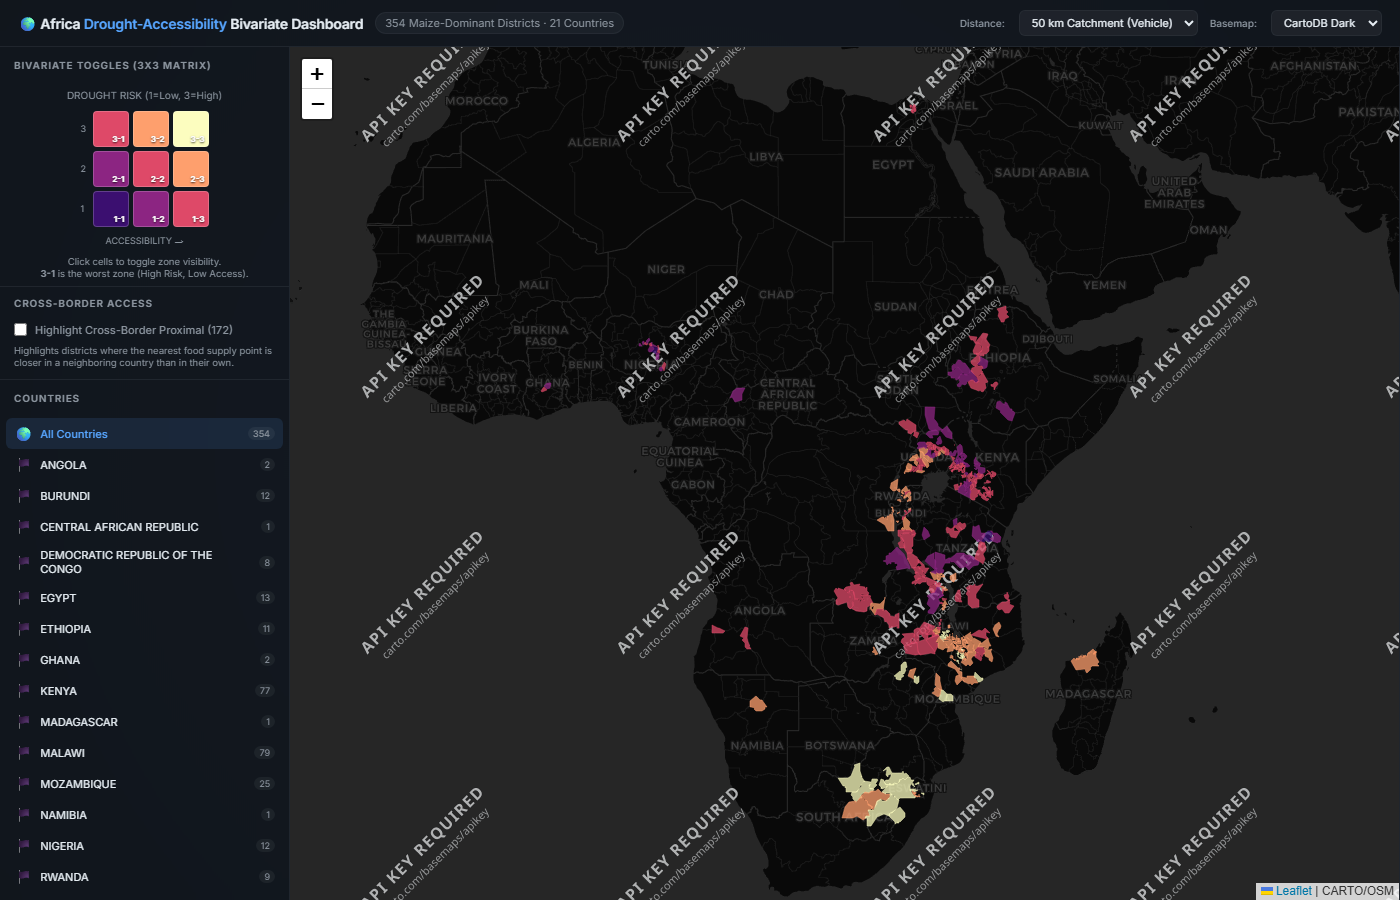
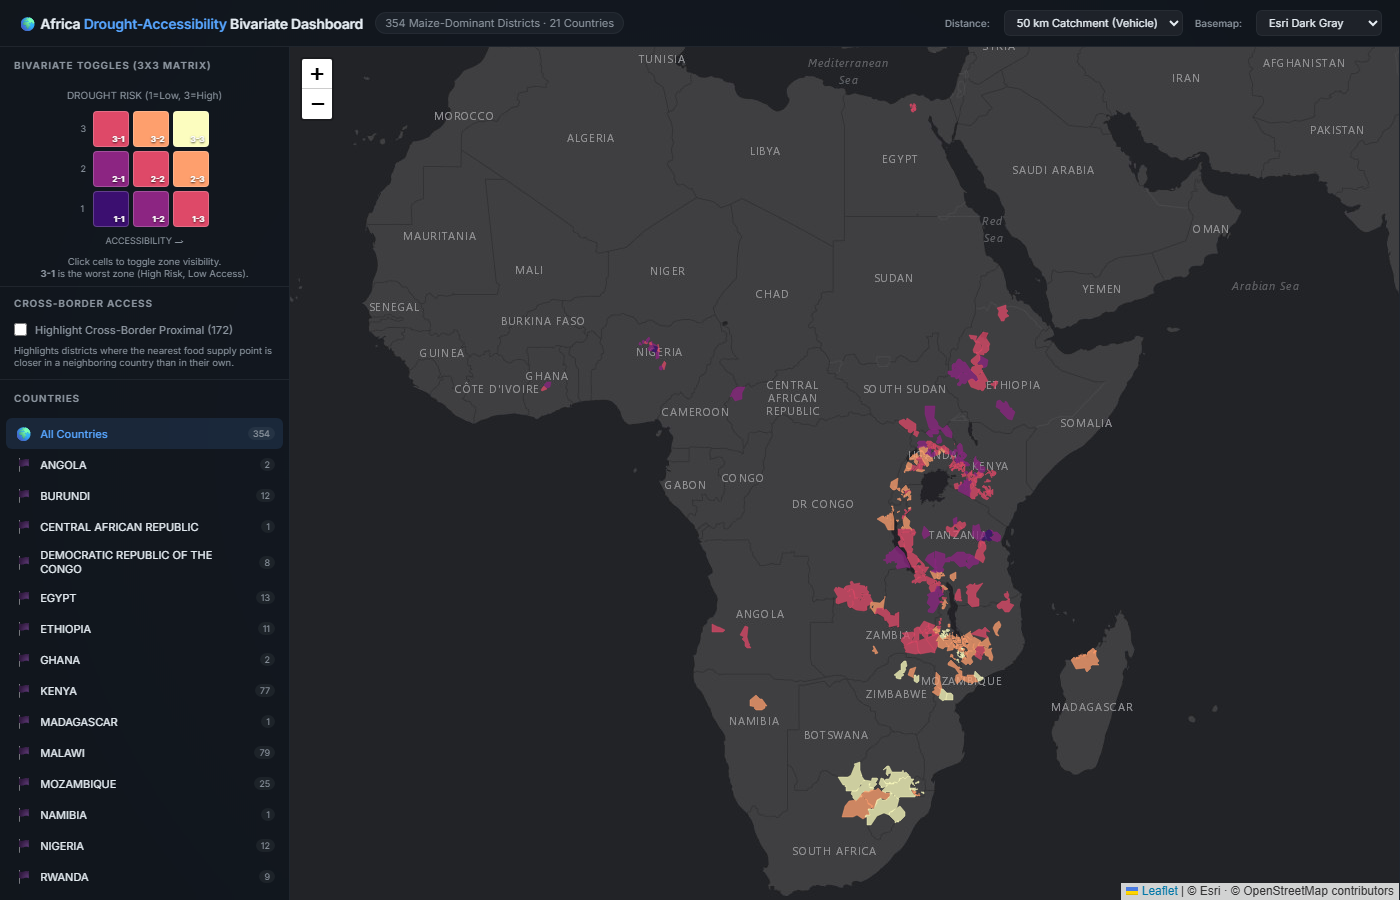
fix: replace CARTO basemaps (now API-key gated) with keyless Esri tiles; regenerate dashboard screenshot

diff --git a/07_dashboard/index.html b/07_dashboard/index.html
@@ -296,8 +296,8 @@ aside{
   </select>
   <label>Basemap:</label>
   <select id="bmSel">
-    <option value="dark">CartoDB Dark</option>
-    <option value="positron">CartoDB Light</option>
+    <option value="dark">Esri Dark Gray</option>
+    <option value="positron">Esri Light Gray</option><option value="osm">OpenStreetMap</option><option value="sat">Esri Satellite</option><option value="ter">Esri Topographic</option>
   </select>
 </header>
 
@@ -368,8 +368,8 @@ const GJ = {"type":"FeatureCollection","features":[{"id":"0","type":"Feature","p
 const YEARS = Array.from({length:26},(_,i)=>2000+i);
 const FLAGS = {'Angola':'&#127462;&#127476;','Burundi':'&#127463;&#127470;','Central African Republic':'&#127464;&#127467;','Democratic Republic of the Congo':'&#127464;&#127465;','Egypt':'&#127466;&#127468;','Ethiopia':'&#127466;&#127481;','Ghana':'&#127468;&#127469;','Kenya':'&#127472;&#127466;','Madagascar':'&#127474;&#127468;','Malawi':'&#127474;&#127484;','Mozambique':'&#127474;&#127487;','Namibia':'&#127475;&#127462;','Nigeria':'&#127475;&#127468;','Rwanda':'&#127479;&#127484;','South Africa':'&#127487;&#127462;','South Sudan':'&#127480;&#127480;','Swaziland':'&#127480;&#127487;','Tanzania':'&#127481;&#127487;','Uganda':'&#127482;&#127468;','Zambia':'&#127487;&#127474;','Zimbabwe':'&#127487;&#127484;'};
 const BM = {
-  dark:'https://{s}.basemaps.cartocdn.com/dark_all/{z}/{x}/{y}{r}.png',
-  positron:'https://{s}.basemaps.cartocdn.com/light_all/{z}/{x}/{y}{r}.png',
+  dark:'https://server.arcgisonline.com/ArcGIS/rest/services/Canvas/World_Dark_Gray_Base/MapServer/tile/{z}/{y}/{x}',
+  positron:'https://server.arcgisonline.com/ArcGIS/rest/services/Canvas/World_Light_Gray_Base/MapServer/tile/{z}/{y}/{x}',
   sat:'https://server.arcgisonline.com/ArcGIS/rest/services/World_Imagery/MapServer/tile/{z}/{y}/{x}',
   ter:'https://server.arcgisonline.com/ArcGIS/rest/services/World_Topo_Map/MapServer/tile/{z}/{y}/{x}',
   osm:'https://{s}.tile.openstreetmap.org/{z}/{x}/{y}.png'
@@ -401,7 +401,7 @@ let selCty = "all";
 let mapLayer = null, tileLayer = null, chart = null;
 
 const map = L.map('map', {zoomControl:true}).setView([0,25],4);
-tileLayer = L.tileLayer(BM.dark, {attribution:'CARTO/OSM',maxZoom:18}).addTo(map);
+tileLayer = L.tileLayer(BM.dark, {attribution:'&copy; Esri &middot; &copy; OpenStreetMap contributors',maxZoom:18}).addTo(map);
 
 // ── Boot ──────────────────────────────────────────────────────────────────────
 buildClist();
@@ -546,7 +546,7 @@ document.getElementById("distSel").addEventListener("change", e => {
 // Palette selector removed
 document.getElementById("bmSel").addEventListener("change", e => {
   if (tileLayer) map.removeLayer(tileLayer);
-  tileLayer = L.tileLayer(BM[e.target.value], {attribution: 'CARTO/OSM/Esri', maxZoom: 18}).addTo(map);
+  tileLayer = L.tileLayer(BM[e.target.value], {attribution: '&copy; Esri &middot; &copy; OpenStreetMap contributors', maxZoom: 18}).addTo(map);
   tileLayer.bringToBack();
 });
 document.getElementById("cbHighlight").addEventListener("change", e => {

diff --git a/07_dashboard/build_dashboard_legacy.py b/07_dashboard/build_dashboard_legacy.py
@@ -441,8 +441,8 @@ input[type=range]{{flex:1;accent-color:var(--accent);cursor:pointer;height:4px}}
   <select id="ctySel"><option value="all">All Countries</option></select>
   <label>Basemap:</label>
   <select id="bmSel">
-    <option value="dark">CartoDB Dark</option>
-    <option value="positron">CartoDB Light</option>
+    <option value="dark">Esri Dark Gray</option>
+    <option value="positron">Esri Light Gray</option><option value="osm">OpenStreetMap</option><option value="sat">Esri Satellite</option><option value="ter">Esri Topographic</option>
   </select>
 </header>
 
@@ -517,8 +517,8 @@ const YEARS = Array.from({{length:26}},(_,i)=>2000+i);
 const RC = {{'Low Vulnerability':'#1b8a43','Moderate Vulnerability':'#c07a00','High Vulnerability':'#b81d18','Unknown':'#58a6ff'}};
 const FLAGS = {{'Angola':'&#127462;&#127476;','Burundi':'&#127463;&#127470;','Central African Republic':'&#127464;&#127467;','Democratic Republic of the Congo':'&#127464;&#127465;','Egypt':'&#127466;&#127468;','Ethiopia':'&#127466;&#127481;','Ghana':'&#127468;&#127469;','Kenya':'&#127472;&#127466;','Madagascar':'&#127474;&#127468;','Malawi':'&#127474;&#127484;','Mozambique':'&#127474;&#127487;','Namibia':'&#127475;&#127462;','Nigeria':'&#127475;&#127468;','Rwanda':'&#127479;&#127484;','South Africa':'&#127487;&#127462;','South Sudan':'&#127480;&#127480;','Swaziland':'&#127480;&#127487;','Tanzania':'&#127481;&#127487;','Uganda':'&#127482;&#127468;','Zambia':'&#127487;&#127474;','Zimbabwe':'&#127487;&#127484;'}};
 const BM = {{
-  dark:'https://{{s}}.basemaps.cartocdn.com/dark_all/{{z}}/{{x}}/{{y}}{{r}}.png',
-  positron:'https://{{s}}.basemaps.cartocdn.com/light_all/{{z}}/{{x}}/{{y}}{{r}}.png',
+  dark:'https://server.arcgisonline.com/ArcGIS/rest/services/Canvas/World_Dark_Gray_Base/MapServer/tile/{{z}}/{{y}}/{{x}}',
+  positron:'https://server.arcgisonline.com/ArcGIS/rest/services/Canvas/World_Light_Gray_Base/MapServer/tile/{{z}}/{{y}}/{{x}}',
   sat:'https://server.arcgisonline.com/ArcGIS/rest/services/World_Imagery/MapServer/tile/{{z}}/{{y}}/{{x}}',
   ter:'https://server.arcgisonline.com/ArcGIS/rest/services/World_Topo_Map/MapServer/tile/{{z}}/{{y}}/{{x}}',
   osm:'https://{{s}}.tile.openstreetmap.org/{{z}}/{{x}}/{{y}}.png'
@@ -543,7 +543,7 @@ let selCty='all', selCls='all', hidden=new Set(), hiddenPOI=new Set(), yr=2025, 
 let showPOI=true;
 
 const map = L.map('map',{{zoomControl:true}}).setView([0,25],4);
-tile = L.tileLayer(BM.dark,{{attribution:'CARTO/OSM',maxZoom:18}}).addTo(map);
+tile = L.tileLayer(BM.dark,{{attribution:'&copy; Esri &middot; &copy; OpenStreetMap contributors',maxZoom:18}}).addTo(map);
 
 // ── Boot ──────────────────────────────────────────────────────────────────────
 buildClist(); buildCtySel(); render(); buildPOILayer(); buildPOICats();
@@ -750,7 +750,7 @@ function togCluster(n){{
 }}
 document.getElementById('bmSel').addEventListener('change',e=>{{
   if(tile) map.removeLayer(tile);
-  tile=L.tileLayer(BM[e.target.value],{{attribution:'Esri/CARTO/OSM',maxZoom:18}}).addTo(map);
+  tile=L.tileLayer(BM[e.target.value],{{attribution:'&copy; Esri &middot; &copy; OpenStreetMap contributors',maxZoom:18}}).addTo(map);
   tile.bringToBack();
 }});
 

diff --git a/07_dashboard/build_bivariate_dashboard.py b/07_dashboard/build_bivariate_dashboard.py
@@ -365,8 +365,8 @@ aside{{
   </select>
   <label>Basemap:</label>
   <select id="bmSel">
-    <option value="dark">CartoDB Dark</option>
-    <option value="positron">CartoDB Light</option>
+    <option value="dark">Esri Dark Gray</option>
+    <option value="positron">Esri Light Gray</option><option value="osm">OpenStreetMap</option><option value="sat">Esri Satellite</option><option value="ter">Esri Topographic</option>
   </select>
 </header>
 
@@ -437,8 +437,8 @@ const GJ = {GJ_INLINE};
 const YEARS = Array.from({{length:26}},(_,i)=>2000+i);
 const FLAGS = {{'Angola':'&#127462;&#127476;','Burundi':'&#127463;&#127470;','Central African Republic':'&#127464;&#127467;','Democratic Republic of the Congo':'&#127464;&#127465;','Egypt':'&#127466;&#127468;','Ethiopia':'&#127466;&#127481;','Ghana':'&#127468;&#127469;','Kenya':'&#127472;&#127466;','Madagascar':'&#127474;&#127468;','Malawi':'&#127474;&#127484;','Mozambique':'&#127474;&#127487;','Namibia':'&#127475;&#127462;','Nigeria':'&#127475;&#127468;','Rwanda':'&#127479;&#127484;','South Africa':'&#127487;&#127462;','South Sudan':'&#127480;&#127480;','Swaziland':'&#127480;&#127487;','Tanzania':'&#127481;&#127487;','Uganda':'&#127482;&#127468;','Zambia':'&#127487;&#127474;','Zimbabwe':'&#127487;&#127484;'}};
 const BM = {{
-  dark:'https://{{s}}.basemaps.cartocdn.com/dark_all/{{z}}/{{x}}/{{y}}{{r}}.png',
-  positron:'https://{{s}}.basemaps.cartocdn.com/light_all/{{z}}/{{x}}/{{y}}{{r}}.png',
+  dark:'https://server.arcgisonline.com/ArcGIS/rest/services/Canvas/World_Dark_Gray_Base/MapServer/tile/{{z}}/{{y}}/{{x}}',
+  positron:'https://server.arcgisonline.com/ArcGIS/rest/services/Canvas/World_Light_Gray_Base/MapServer/tile/{{z}}/{{y}}/{{x}}',
   sat:'https://server.arcgisonline.com/ArcGIS/rest/services/World_Imagery/MapServer/tile/{{z}}/{{y}}/{{x}}',
   ter:'https://server.arcgisonline.com/ArcGIS/rest/services/World_Topo_Map/MapServer/tile/{{z}}/{{y}}/{{x}}',
   osm:'https://{{s}}.tile.openstreetmap.org/{{z}}/{{x}}/{{y}}.png'
@@ -470,7 +470,7 @@ let selCty = "all";
 let mapLayer = null, tileLayer = null, chart = null;
 
 const map = L.map('map', {{zoomControl:true}}).setView([0,25],4);
-tileLayer = L.tileLayer(BM.dark, {{attribution:'CARTO/OSM',maxZoom:18}}).addTo(map);
+tileLayer = L.tileLayer(BM.dark, {{attribution:'&copy; Esri &middot; &copy; OpenStreetMap contributors',maxZoom:18}}).addTo(map);
 
 // ── Boot ──────────────────────────────────────────────────────────────────────
 buildClist();
@@ -615,7 +615,7 @@ document.getElementById("distSel").addEventListener("change", e => {{
 // Palette selector removed
 document.getElementById("bmSel").addEventListener("change", e => {{
   if (tileLayer) map.removeLayer(tileLayer);
-  tileLayer = L.tileLayer(BM[e.target.value], {{attribution: 'CARTO/OSM/Esri', maxZoom: 18}}).addTo(map);
+  tileLayer = L.tileLayer(BM[e.target.value], {{attribution: '&copy; Esri &middot; &copy; OpenStreetMap contributors', maxZoom: 18}}).addTo(map);
   tileLayer.bringToBack();
 }});
 document.getElementById("cbHighlight").addEventListener("change", e => {{

diff --git a/06_visualisation/plot_osm_pois_map.py b/06_visualisation/plot_osm_pois_map.py
@@ -103,7 +103,8 @@ def main():
     m = folium.Map(
         location=[center_lat, center_lon],
         zoom_start=4,
-        tiles="CartoDB positron",
+        tiles="https://server.arcgisonline.com/ArcGIS/rest/services/Canvas/World_Light_Gray_Base/MapServer/tile/{z}/{y}/{x}",
+        attr="Tiles &copy; Esri",
     )
 
     # 3a. District choropleth layer -------------------------------------

diff --git a/06_visualisation/plot_cluster_map.py b/06_visualisation/plot_cluster_map.py
@@ -108,7 +108,8 @@ def main():
         legend=True,
         tooltip=["COUNTRY", "ADM_NAME", "cluster_label", "maize_pct"],
         popup=True,
-        tiles="CartoDB positron"
+        tiles="https://server.arcgisonline.com/ArcGIS/rest/services/Canvas/World_Light_Gray_Base/MapServer/tile/{z}/{y}/{x}",
+        attr="Tiles &copy; Esri"
     )
     
     m.save(MAP_HTML)
